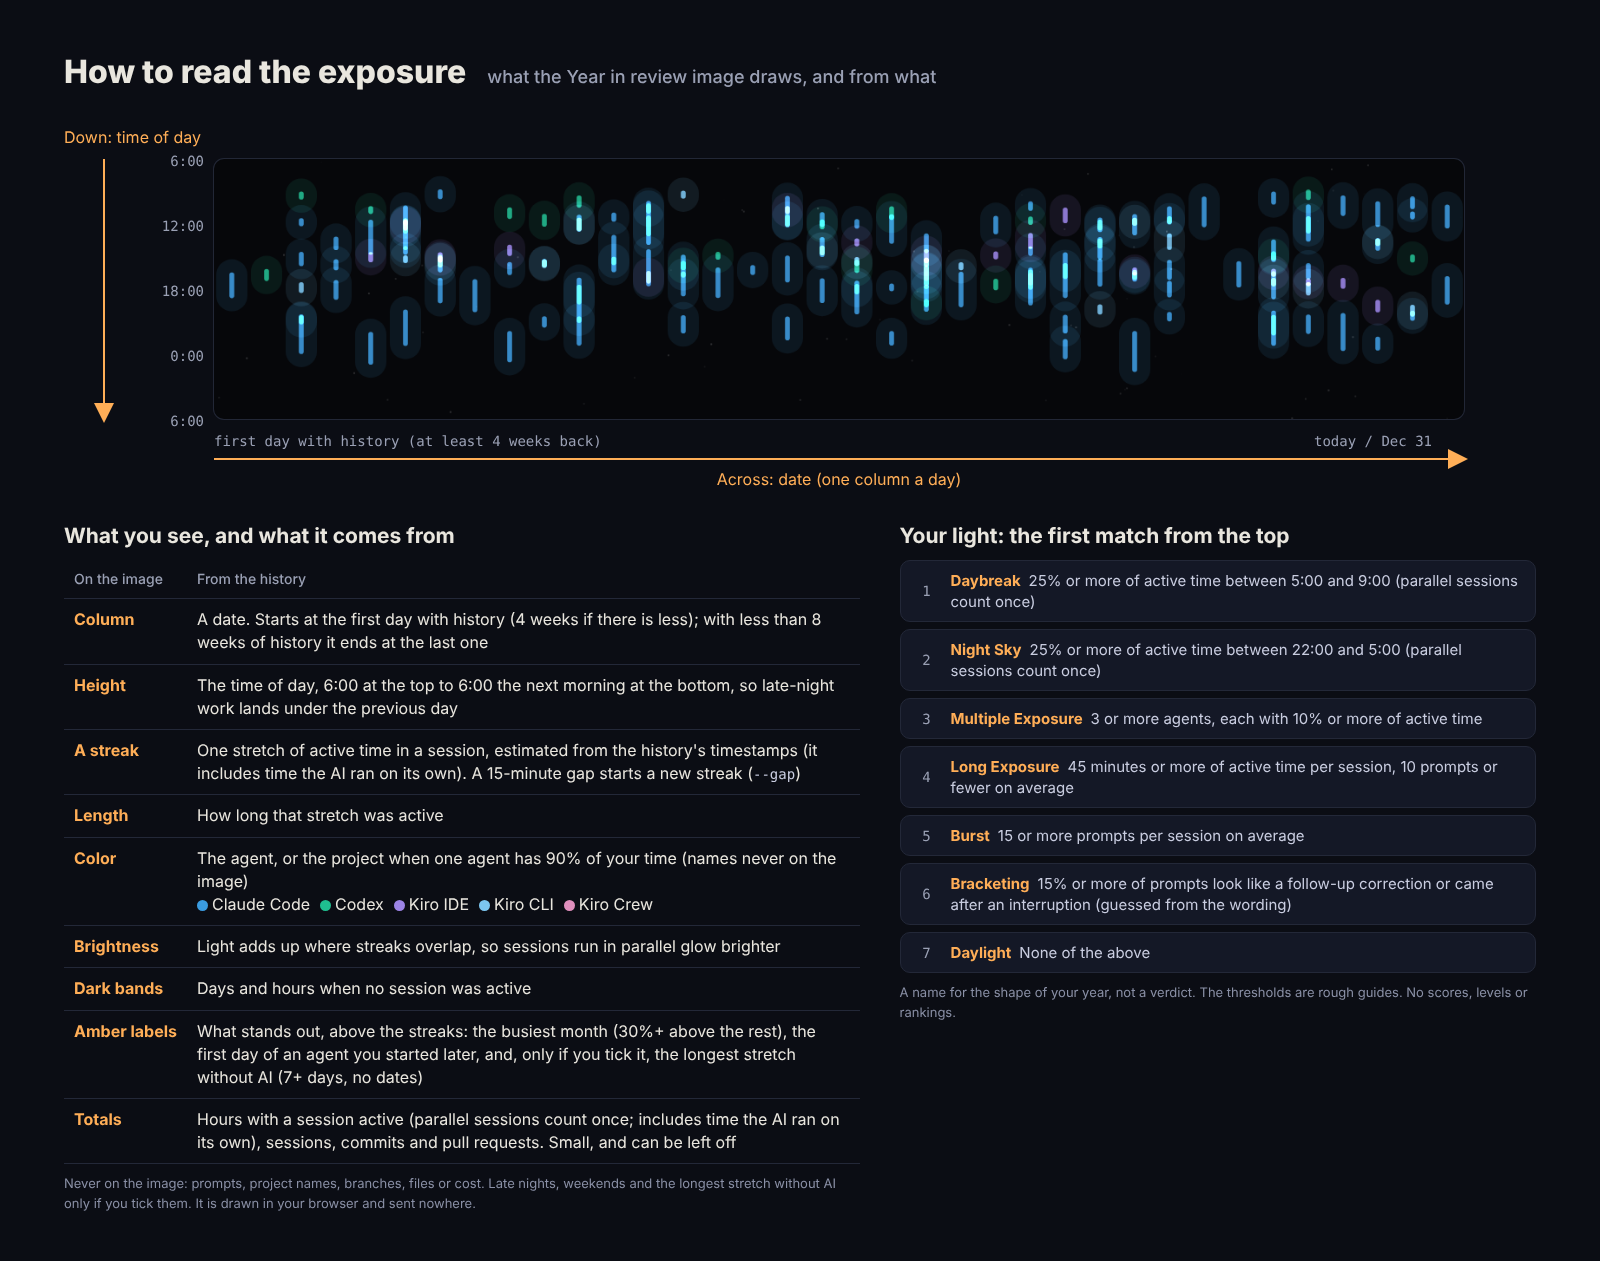
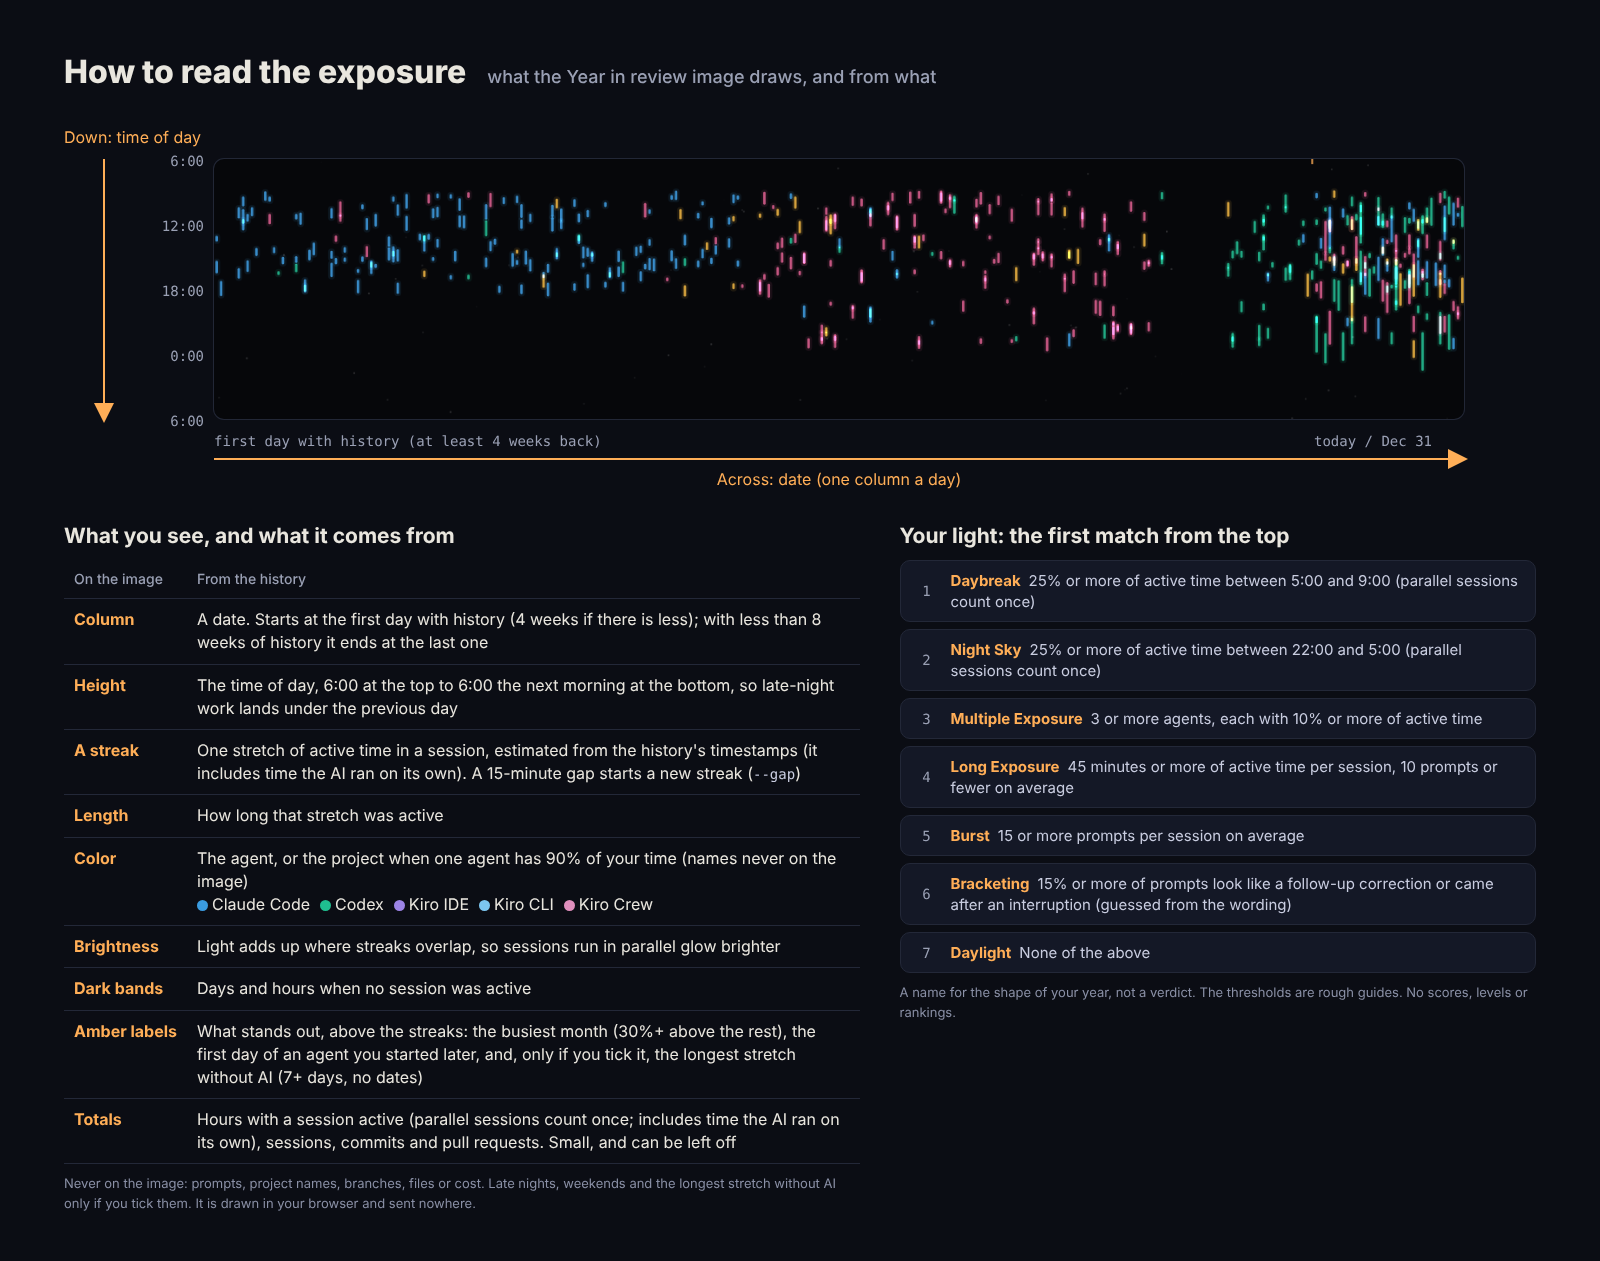
Year in review: a year of sample history, busiest month needs 3 months
- gen.py adds about 11 months of short Claude Code history before the
  last 5 weeks (own random generator, so the recent data and the other
  screenshots don't change). docs/year.png now shows a year with a light
  instead of "Your first 5 weeks"; capture.mjs picks the year with the
  most history when this year is still short
- The busiest month is named only with 3 months or more and 8 weeks or
  more of history; with a few weeks it says little
- The note under the image no longer says what stands out has no dates
  (an agent's first day does); only the longest stretch without AI never
  shows dates

Checked on a 390px-wide screen: the options wrap and nothing scrolls
sideways.

Changed region(s): [[0.125, 0.1546, 0.9375, 0.2784]]

diff --git a/internal/web/js/year.js b/internal/web/js/year.js
@@ -67,7 +67,7 @@ function yearData(y){
 function highlights(x, ms, on, firstOf, day0){
   const H = [], col = d => Math.round((new Date(d.getFullYear(), d.getMonth(), d.getDate()) - day0)/864e5);
   const act = ms.filter(m => m.active > 0);
-  if (act.length >= 2){ // いちばん動いていた月（ほかの月の平均より 3 割以上多く、10 時間以上のときだけ。どの月も同じなら言うことがない）
+  if (act.length >= 3 && !x.short){ // いちばん動いていた月（記録が 8 週以上・3 か月以上あり、ほかの月の平均より 3 割以上多く、10 時間以上のときだけ。比べる月が少なければ、どの月も同じなら言うことがない）
     const m = act.reduce((a, b) => b.active > a.active ? b : a), [Y, M] = m.start.split("-").map(Number);
     const rest = (act.reduce((a, b) => a + b.active, 0) - m.active)/(act.length - 1);
     if (m.active >= rest*1.3 && m.active >= 600){ const t = `Busiest month: ${MON[M-1]} · ${Math.round(m.active/60)}h`; H.push({k: "month", c0: col(new Date(Y, M-1, 1)), c1: col(new Date(Y, M, 0)), t, img: t}); }
@@ -355,7 +355,7 @@ function renderYear(){
     <label>Color by <select id="yrcolor">${[["auto", "Auto"], ["agent", "Agent"], ["project", "Project"]].map(([v, l]) => `<option value="${v}"${yr.opt.color === v ? " selected" : ""}>${l}</option>`).join("")}</select></label></div>
   <canvas class="yrcard" id="yrcard" width="1600" height="900" role="img" aria-label="${esc(cardLabel(x, L, yr.opt))}"></canvas>
   <div class="yract"><button class="pill" id="yrsave">Save as PNG</button>${copyBtn("Copy image", `id="yrcopy"`)}</div>
-  <p class="note">The image shows the date range, the streaks of light, what stands out without exact dates, kiroku's address, and only what is ticked above. Prompts, project names, branches, files and estimated cost are never included. It is made in this browser and sent nowhere.</p>
+  <p class="note">The image shows the date range, the streaks of light, what stands out, kiroku's address, and only what is ticked above. The longest stretch without AI never shows its dates. Prompts, project names, branches, files and estimated cost are never included. It is made in this browser and sent nowhere.</p>
 
   <h3>Your light</h3>
   ${L ? `<div class="yrtype"><div class="yrtn"><span>${vt(name(L))}</span></div><div>

diff --git a/internal/web/testdata/yearstory_test.js b/internal/web/testdata/yearstory_test.js
@@ -11,11 +11,13 @@ const day0 = new Date(2025, 0, 1);
 const texts = H => H.map(h => h.t);
 const days = (...ds) => new Set(ds.map(d => key(new Date(2025, 0, d))));
 
-// いちばん動いていた月：ほかの月の平均より 3 割以上多いときだけ
-eq(texts(highlights({late: 0, weekend: 0}, [{start: "2025-01-01", active: 600}, {start: "2025-02-01", active: 780}], new Set(), {}, day0)), ["Busiest month: Feb · 13h"], "3 割多ければ出す");
-eq(texts(highlights({late: 0, weekend: 0}, [{start: "2025-01-01", active: 600}, {start: "2025-02-01", active: 779}], new Set(), {}, day0)), [], "3 割に届かなければ出さない");
-eq(texts(highlights({late: 0, weekend: 0}, [{start: "2025-01-01", active: 600}], new Set(), {}, day0)), [], "1 か月だけなら出さない");
-eq(texts(highlights({late: 0, weekend: 0}, [{start: "2025-01-01", active: 100}, {start: "2025-02-01", active: 590}], new Set(), {}, day0)), [], "10 時間に満たない月は、目立っても出さない");
+// いちばん動いていた月：記録が 8 週以上・3 か月以上あり、ほかの月の平均より 3 割以上多いときだけ
+const m3 = (a, b, c) => [{start: "2025-01-01", active: a}, {start: "2025-02-01", active: b}, {start: "2025-03-01", active: c}];
+eq(texts(highlights({late: 0, weekend: 0}, m3(600, 780, 600), new Set(), {}, day0)), ["Busiest month: Feb · 13h"], "3 割多ければ出す");
+eq(texts(highlights({late: 0, weekend: 0}, m3(600, 779, 600), new Set(), {}, day0)), [], "3 割に届かなければ出さない");
+eq(texts(highlights({late: 0, weekend: 0}, m3(600, 780, 600).slice(0, 2), new Set(), {}, day0)), [], "2 か月だけなら出さない");
+eq(texts(highlights({late: 0, weekend: 0, short: true}, m3(600, 780, 600), new Set(), {}, day0)), [], "記録が 8 週に満たなければ出さない");
+eq(texts(highlights({late: 0, weekend: 0}, m3(100, 590, 100), new Set(), {}, day0)), [], "10 時間に満たない月は、目立っても出さない");
 
 // いちばん長い休み：7 日以上だけ。同じ月の中なら「Jan 3–9」。画像の文には日付を書かない
 eq(texts(highlights({late: 0, weekend: 0}, [], days(2, 10), {}, day0)), ["Longest stretch without AI: 7 days (Jan 3–9)"], "7 日の休みは出す");

diff --git a/tools/screenshots/gen.py b/tools/screenshots/gen.py
@@ -1,4 +1,4 @@
-"""スクリーンショット用のダミーの履歴を作る（Claude Code・Codex CLI・Kiro CLI・Kiro IDE、架空の 4 プロジェクト、今日までの約 5 週間）。
+"""スクリーンショット用のダミーの履歴を作る（Claude Code・Codex CLI・Kiro CLI・Kiro IDE、架空の 4 プロジェクト、今日までの約 5 週間。それより前の約 11 か月は、Year in review の見本用に短い Claude Code の履歴だけ）。
 スクリーンショットは英語表示で撮るので、プロンプトも英語にする。
 
   python3 gen.py <出力先>   → <出力先>/home/.claude/projects・<出力先>/home/.codex・<出力先>/home/.kiro と <出力先>/repos/<プロジェクト>
@@ -215,3 +215,32 @@ for d in range(35, -1, -1):
 os.makedirs(CODEX, exist_ok=True)
 with open(os.path.join(CODEX, "session_index.jsonl"), "w") as f:
     for l in index: f.write(json.dumps(l)+"\n")
+
+# それより前（今日の 36 日前まで、約 11 か月）の Claude Code の履歴：Year in review の見本（docs/year.png）を 1 年ぶんにするため。
+# 中身は短い依頼と返事だけ。別の乱数で最後に作るので、ここまでのダミーデータ（直近 5 週間）は変わらない。
+# 春は data-pipeline、初夏から mobile、秋から web-app が中心。8 月に 2 週間の休み。後半ほど夜と並列が増える
+old = random.Random(23)
+for d in range(330, 35, -1):
+    day = today - dt.timedelta(days=d)
+    if day.month == 8 and 4 <= day.day <= 17: continue
+    late = d < 150  # 後半
+    if day.weekday() >= 5 and old.random() < .85: continue
+    if old.random() < .12: continue
+    main = "data-pipeline" if day.month <= 4 else "mobile" if day.month <= 7 else "web-app"
+    for _ in range(old.choice([1, 2, 2, 3])):
+        p = main if old.random() < .75 else old.choice(list(projects))
+        h = old.choice([9, 10, 11, 13, 14, 15, 16] + ([19, 21, 22] if late else [17]))
+        start = day + dt.timedelta(hours=h, minutes=old.randint(0, 50))
+        for par in range(2 if late and old.random() < .35 else 1):  # 後半は、ときどき 2 つを並べて走らせる
+            sid = str(uuid.uuid4()); cwd = os.path.join(REPOS, p); br = old.choice(branches[p]); model = old.choice(models)
+            t = start + dt.timedelta(minutes=par * old.randint(5, 25)); lines = []
+            for i in range(old.randint(2, 9)):
+                txt = old.choice(projects[p]) if i == 0 else old.choice(follow)
+                lines.append({"type":"user","timestamp":t.isoformat(),"cwd":cwd,"gitBranch":br,"sessionId":sid,"message":{"role":"user","content":txt}})
+                t += dt.timedelta(seconds=old.randint(60, 420)); mid = "msg_"+uuid.uuid4().hex[:10]
+                usage = {"input_tokens":old.randint(5,200),"output_tokens":old.randint(100,3000),"cache_creation_input_tokens":old.randint(500,8000),"cache_read_input_tokens":old.randint(15000,40000)}
+                lines.append({"type":"assistant","timestamp":t.isoformat(),"cwd":cwd,"gitBranch":br,"sessionId":sid,"requestId":"req_"+mid,"message":{"id":mid,"model":model,"role":"assistant","content":[{"type":"text","text":old.choice(replies[:3])}],"usage":usage}})
+                t += dt.timedelta(seconds=old.randint(30, 400))
+            dirn = os.path.join(OUT, "home", ".claude", "projects", f"-Users-me-{p}"); os.makedirs(dirn, exist_ok=True)
+            with open(f"{dirn}/{sid}.jsonl","w") as f:
+                for l in lines: f.write(json.dumps(l, ensure_ascii=False)+"\n")

diff --git a/CHANGELOG.md b/CHANGELOG.md
@@ -6,7 +6,7 @@ Notable changes to kiroku, in the style of [Keep a Changelog](https://keepachang
 
 ### Added
 
-- Year in review is back ("Year" after Week and Month, or `Y`): a year of active time drawn as streaks of light, your light (the shape of your year in photography terms) and a 1600×900 image to share with totals only, which now says how to read the streaks and fills its width from 4 weeks of history (was 8). The light that was "Refocus" is now "Bracketing" (a few takes, keeping the best), and Daybreak now counts time when any session was active once instead of adding up sessions run in parallel. It now says what stands out (busiest month, longest break, an agent you started later, late nights and weekends) on the image, compares the second half of the period with the first, and on the page asks a question about each change. The streaks are colored by project when one agent has 90% or more of your time, and "Color by" picks Agent or Project; project names never go on the image. A seventh light, Night Sky, is for years with 25% or more of active time between 22:00 and 5:00. The image has month and hour ticks, and its text stays above the streaks so early mornings are not covered. The busiest month is named only when it stands out (30% above the rest, 10 hours or more), and the longest break only when it is 7 days or more; a streak of 14 or more active days is marked too (a weekend off does not break it). "To reflect on" always asks one question about your light, besides one for each change between the halves. It no longer has skill levels (Novice to Legendary), the four skill meters, or the under- and overexposed labels: it describes how you worked and doesn't score or rank you. The image to share now leads with the streaks: totals are small and say what the hours count (parallel sessions once, including time the AI ran on its own), the header always gives the date range, and kiroku's address is at the bottom. Checkboxes above the image choose what goes on it; late nights, weekends and the longest stretch without AI are off until you tick them, the longest stretch never shows its dates on the image, and the most consecutive active days stays on the page. Each light has a plain one-line description, "time in parallel" is now "2+ sessions at once" with a definition, and the questions use the same hours as the facts (22:00–5:00 instead of "after dark"). With less than 8 weeks of history it says "Your first 3 weeks with AI." instead of a year, ends the image at the last day with history, and leaves out your light and the second half vs first. Project colors next to each other are no longer close shades (blue and light blue), and the hour ticks sit outside the streaks instead of being cut off at the edge
+- Year in review is back ("Year" after Week and Month, or `Y`): a year of active time drawn as streaks of light, your light (the shape of your year in photography terms) and a 1600×900 image to share with totals only, which now says how to read the streaks and fills its width from 4 weeks of history (was 8). The light that was "Refocus" is now "Bracketing" (a few takes, keeping the best), and Daybreak now counts time when any session was active once instead of adding up sessions run in parallel. It now says what stands out (busiest month, longest break, an agent you started later, late nights and weekends) on the image, compares the second half of the period with the first, and on the page asks a question about each change. The streaks are colored by project when one agent has 90% or more of your time, and "Color by" picks Agent or Project; project names never go on the image. A seventh light, Night Sky, is for years with 25% or more of active time between 22:00 and 5:00. The image has month and hour ticks, and its text stays above the streaks so early mornings are not covered. The busiest month is named only when it stands out (30% above the rest, 10 hours or more) and there are 3 months or more and 8 weeks or more of history, and the longest break only when it is 7 days or more; a streak of 14 or more active days is marked too (a weekend off does not break it). "To reflect on" always asks one question about your light, besides one for each change between the halves. It no longer has skill levels (Novice to Legendary), the four skill meters, or the under- and overexposed labels: it describes how you worked and doesn't score or rank you. The image to share now leads with the streaks: totals are small and say what the hours count (parallel sessions once, including time the AI ran on its own), the header always gives the date range, and kiroku's address is at the bottom. Checkboxes above the image choose what goes on it; late nights, weekends and the longest stretch without AI are off until you tick them, the longest stretch never shows its dates on the image, and the most consecutive active days stays on the page. Each light has a plain one-line description, "time in parallel" is now "2+ sessions at once" with a definition, and the questions use the same hours as the facts (22:00–5:00 instead of "after dark"). With less than 8 weeks of history it says "Your first 3 weeks with AI." instead of a year, ends the image at the last day with history, and leaves out your light and the second half vs first. Project colors next to each other are no longer close shades (blue and light blue), and the hour ticks sit outside the streaks instead of being cut off at the edge
 
 ## v0.30.0 - 2026-10-10
 

diff --git a/docs/guide.md b/docs/guide.md
@@ -106,7 +106,7 @@ The old forms `kiroku --serve`, `--json`, `-o` and `--weekly` / `--monthly` have
 - Weekly and monthly reports: "Copy weekly report prompt" ("Copy monthly report prompt" in month view) in the summary heading copies a prompt for an AI agent on this computer, such as Claude Code or Codex, to write the report. See [Reviews and reports with your agent](#reviews-and-reports-with-your-agent) for what these prompts contain
 - Year in review: "Year" after Week and Month (`Y`) opens the year's "exposure". Across is the date and down is the time of day (6:00 to 6:00 the next morning, so late-night work lands at the bottom of the previous day's column); each stretch of active time in a session is drawn as a streak of light, colored by agent and brighter where sessions overlapped. Choose the year at the top right
   - Color: by agent, or by project when one agent has 90% or more of your active time (with a single agent the colors would all be the same). "Color by" switches between Auto, Agent and Project. The image to share shows project colors only, never project names
-  - What stands out: facts found in the year: the busiest month (when it has 10 hours or more and 30% more active time than the average of the other months), the most consecutive active days (14 or more; a weekend off does not break a run), the longest stretch without AI (7 days or more), the first day of an agent you started later (two weeks or more after your first record), and late nights (22:00–5:00) and weekends when they are 10% or more of active time. Dark bands are days without AI sessions; days off, holidays and days spent on other work look the same
+  - What stands out: facts found in the year: the busiest month (with 8 weeks or more and 3 months or more of history, when it has 10 hours or more and 30% more active time than the average of the other months), the most consecutive active days (14 or more; a weekend off does not break a run), the longest stretch without AI (7 days or more), the first day of an agent you started later (two weeks or more after your first record), and late nights (22:00–5:00) and weekends when they are 10% or more of active time. Dark bands are days without AI sessions; days off, holidays and days spent on other work look the same
   - Second half vs first: the period with history is split in half by date (8 weeks or more, 5 or more sessions on each side), and only what moved a lot is shown: session length (±20%), "2+ sessions at once" (the share of active time when two or more sessions were running) and late nights (5 points each), and prompts per session (±20%). On the page, "To reflect on" asks a question about each change and one about your light (for example "You handed over big tasks. How often did the first result need a second round?"); the questions stay on the screen and are never saved, sent or put on the image
   - An image to share: a 1600×900 image led by the streaks of light, with month and hour ticks, the date range, a line on how to read the streaks and kiroku's address. Tick above the image what else goes on it: totals (hours with a session active, sessions, commits and pull requests, shown small with a note that parallel sessions count once and the hours include time the AI ran on its own), your light with a plain one-line description, the color key, late nights and weekends, and the longest stretch without AI (shown without dates). Late nights, weekends and the longest stretch without AI are off until you tick them. The most consecutive active days never goes on the image, so it doesn't read as a target. Get it with "Save as PNG" or "Copy image". The image is made in the page and sent nowhere; prompts, project names, branches, files and estimated cost are never included. The streaks start from the first day with history (at least 4 weeks)
   - Less than 8 weeks of history: the title says "Your first 3 weeks with AI." (or "3 weeks with AI." when you have history from an earlier year) instead of a year, the image ends at the last day with history, and neither your light nor the second half vs first is shown
